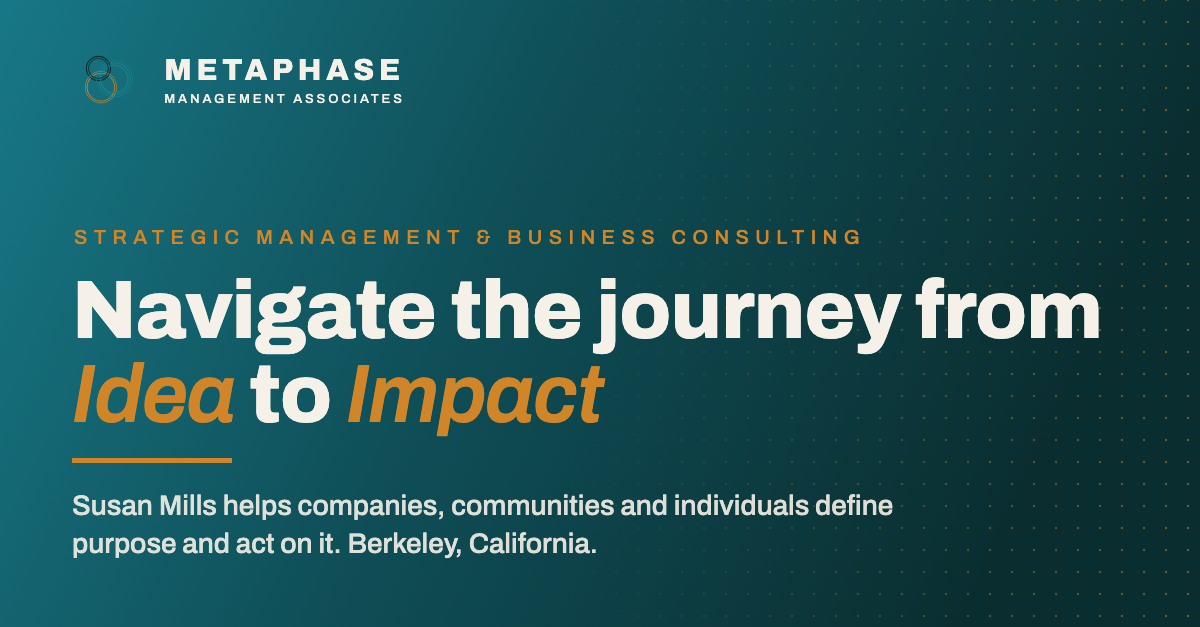
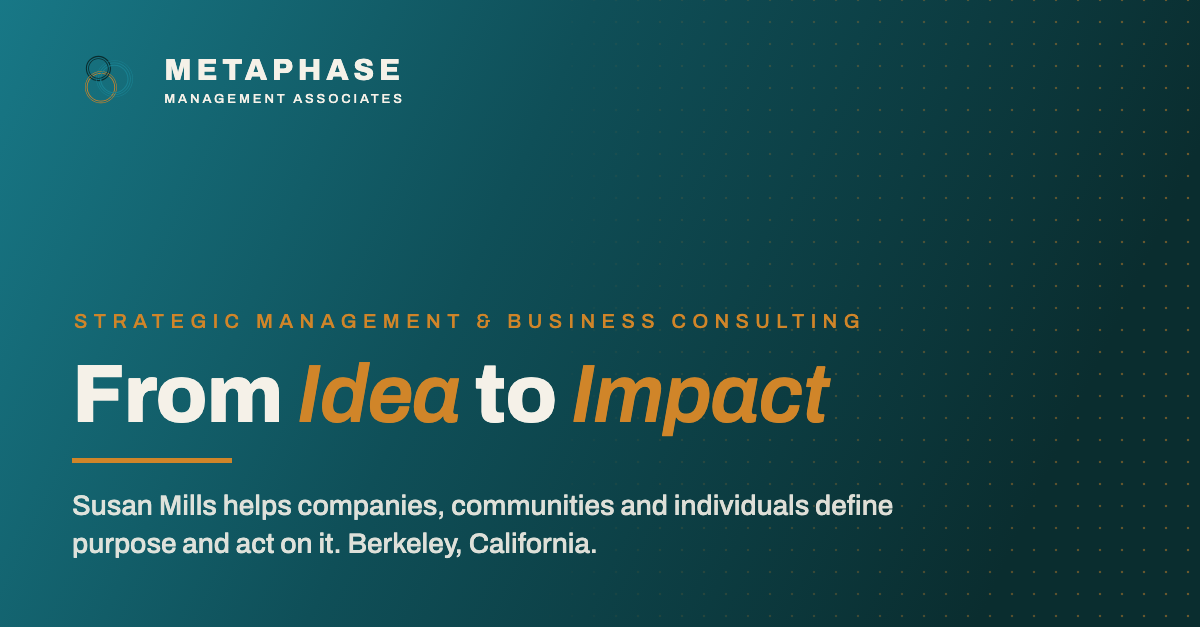
Tagline reads "From Idea to Impact" everywhere on the site
Lee asked for "From Idea to Impact", not "the journey from idea to impact".
The footer tagline drops "Meaningful". The meta description, the card page
intro and the two About paragraphs now say "go from idea to impact". The
default share image, the preview most links show, is re-rendered with the
new headline.

Claude-Session: https://claude.ai/code/session_015qX9YHQvccsubZUEXTgMBc

Changed region(s): [[0.0617, 0.4242, 0.925, 0.697], [0.0617, 0.3636, 0.74, 0.3939]]

diff --git a/pages/card.html b/pages/card.html
@@ -5,7 +5,7 @@ permalink: /card/
 image: /assets/social/share-card.png
 description: Susan Mills, Founder of Metaphase Management Associates. Save the contact, call, email, or connect on LinkedIn.
 heading: Susan Mills
-intro: Helping clients navigate the journey from idea to meaningful impact.
+intro: Helping clients go from idea to impact.
 save_label: Save contact
 ---
 {%- assign a = site.data.settings.author -%}

diff --git a/pages/about.md b/pages/about.md
@@ -30,8 +30,8 @@ specialties:
       - Social Impact
 company_heading: About Metaphase Management
 company_text: >-
-  Metaphase Management helps individuals, businesses and communities navigate the journey from
-  idea to meaningful impact. From past experience we recognize that highly competitive behaviors
+  Metaphase Management helps individuals, businesses and communities go from idea
+  to impact. From past experience we recognize that highly competitive behaviors
   and cultures may lead to burnout, alienation and general dissatisfaction. Our coaching and
   planning aim to generate thriving from the perspectives of personal, business, community,
   spiritual and environmental considerations. We coach individuals. We design leadership
